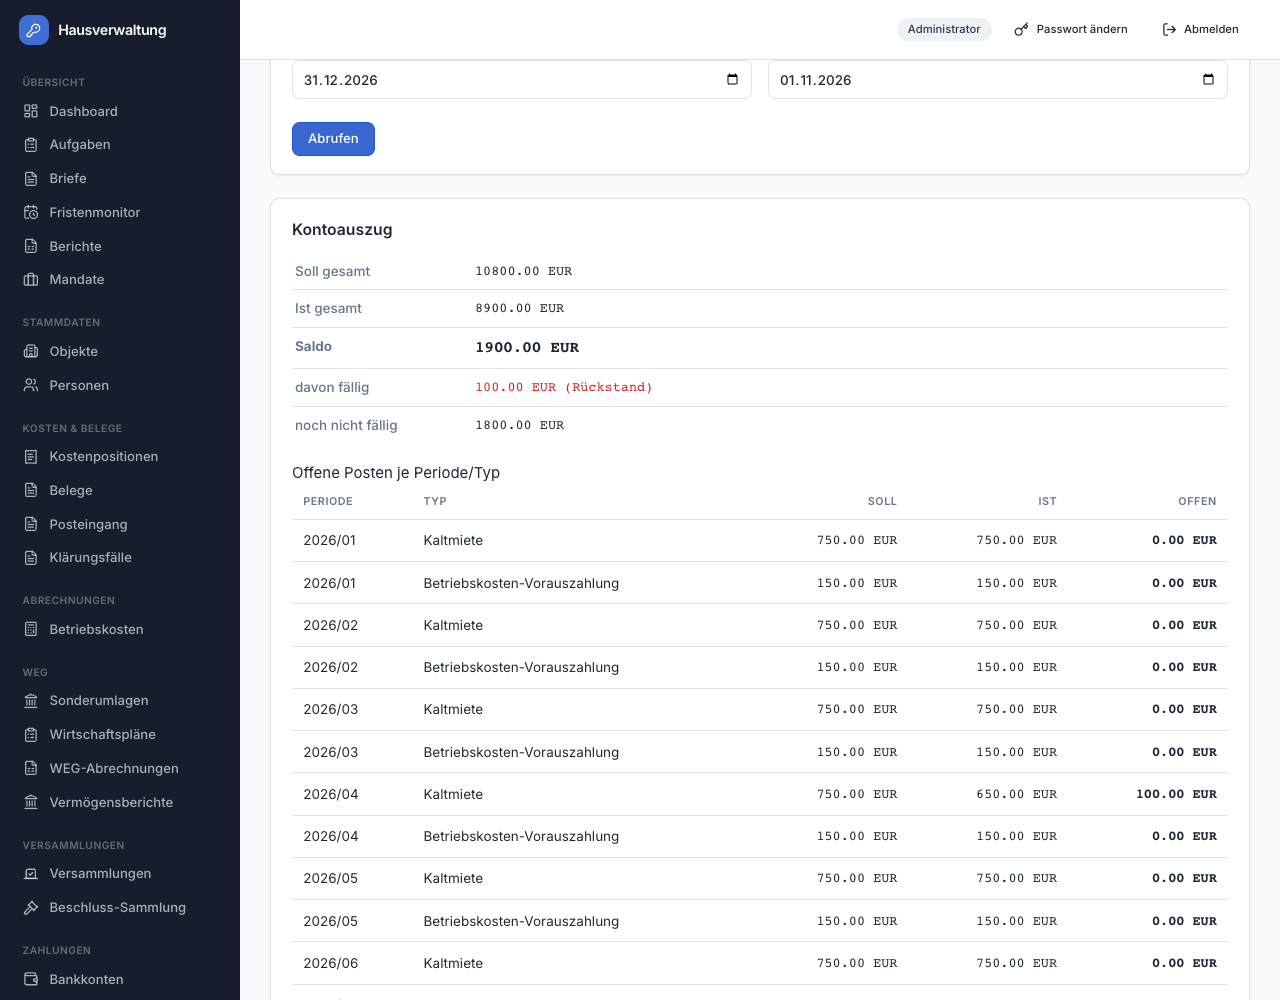
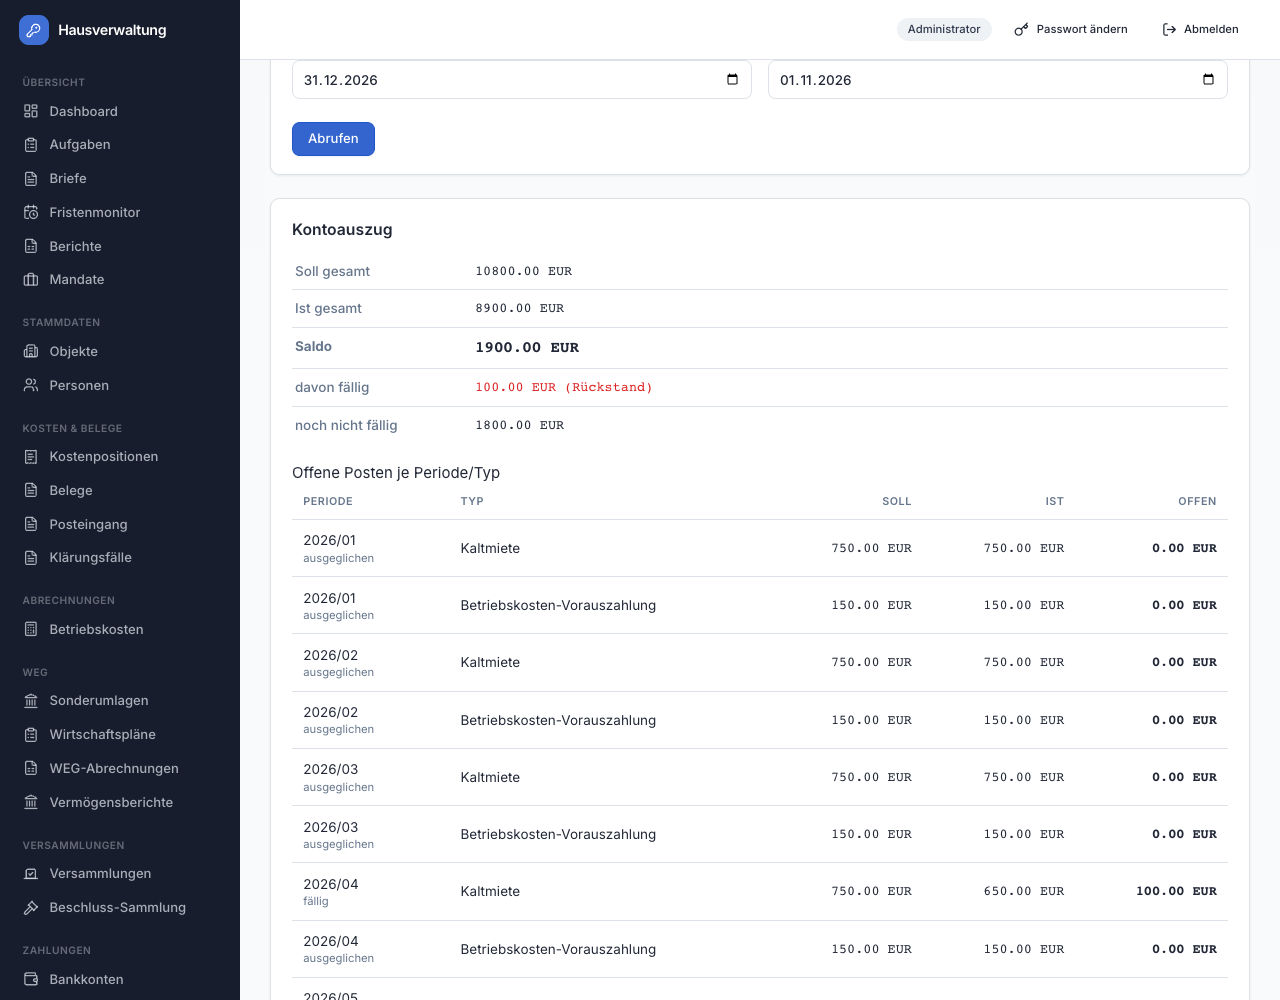
fix(payments): identify due and future rent by period
The account summary separated arrears from future rent, but each open November and December charge still appeared without its due status. Return the tenant row classification used in the summary and show it beside the period.

Cover the signed amounts, April arrears and both November cutoff dates in the engine, API, component and browser tests. Check the existing rent and bank journeys and capture the rows at 1280 and 360 px.

Refs #170

diff --git a/frontend/src/pages/MietkontoPage.test.tsx b/frontend/src/pages/MietkontoPage.test.tsx
@@ -32,7 +32,12 @@ afterEach(() => {
 it("keeps the full-year balance and labels only the selected cutoff's due part as arrears", async () => {
   vi.mocked(api.leaseStatement).mockResolvedValue({
     soll_total: "10800.00", ist_total: "8900.00", balance: "1900.00",
-    due_balance: "100.00", not_yet_due_balance: "1800.00", open_items: [],
+    due_balance: "100.00", not_yet_due_balance: "1800.00", open_items: [
+      { period_year: 2026, period_month: 4, payment_type: "KALTMIETE", soll: "750.00", ist: "650.00", open_amount: "100.00", is_due: true },
+      { period_year: 2026, period_month: 11, payment_type: "KALTMIETE", soll: "750.00", ist: "0.00", open_amount: "750.00", is_due: false },
+      { period_year: 2026, period_month: 12, payment_type: "KALTMIETE", soll: "750.00", ist: "800.00", open_amount: "-50.00", is_due: false },
+      { period_year: 2026, period_month: 10, payment_type: "KALTMIETE", soll: "750.00", ist: "750.00", open_amount: "0.00", is_due: true },
+    ],
   });
   const user = userEvent.setup();
   render(<MietkontoPage />);
@@ -48,7 +53,13 @@ it("keeps the full-year balance and labels only the selected cutoff's due part a
   expect(saldo).toHaveTextContent("1900.00 EUR");
   expect(saldo).not.toHaveTextContent(/R[uü]e?ckstand/);
   expect(screen.getByText("davon fällig").closest("tr")).toHaveTextContent("100.00 EUR (Rückstand)");
-  expect(screen.getByText("noch nicht fällig").closest("tr")).toHaveTextContent("1800.00 EUR");
+  expect(screen.getAllByText("noch nicht fällig")[0].closest("tr")).toHaveTextContent("1800.00 EUR");
+  for (const [period, status, amount] of [["2026/04", "fällig", "100.00"], ["2026/11", "noch nicht fällig", "750.00"], ["2026/12", "noch nicht fällig", "-50.00"], ["2026/10", "ausgeglichen", "0.00"]]) {
+    const row = screen.getByText(period).closest("tr")!;
+    expect(within(row).getByText(status)).toBeVisible();
+    expect(row).toHaveTextContent(`${amount} EUR`);
+    expect(row).not.toHaveTextContent("Rückstand");
+  }
   expect(api.leaseStatement).toHaveBeenCalledWith("lease-t12", "2026-01-01", "2026-12-31", undefined, "2026-11-01");
   fireEvent.change(screen.getByLabelText("Fällig am *"), { target: { value: "2026-11-04" } });
   expect(screen.queryByText("Saldo", { exact: true })).not.toBeInTheDocument();
@@ -67,10 +78,10 @@ describe("Mietkonto saldo (Soll minus Ist)", () => {
       due_balance: balance, not_yet_due_balance: "0.00",
       open_items: [{
         period_year: 2025, period_month: 12, payment_type: "KALTMIETE",
-        soll: "500.00", ist: "0.00", open_amount: "500.00",
+        soll: "500.00", ist: "0.00", open_amount: "500.00", is_due: true,
       }, {
         period_year: 2025, period_month: 12, payment_type: "NK_VORAUSZAHLUNG",
-        soll: "100.00", ist: "0.00", open_amount: "100.00",
+        soll: "100.00", ist: "0.00", open_amount: "100.00", is_due: true,
       }],
     });
     const user = userEvent.setup();

diff --git a/frontend/src/pages/MietkontoPage.tsx b/frontend/src/pages/MietkontoPage.tsx
@@ -378,9 +378,12 @@ export function MietkontoPage() {
                   {result.open_items.map((item, idx) => (
                     <tr key={idx}>
                       <td>
-                        {item.period_year
+                        <span>{item.period_year
                           ? `${item.period_year}${item.period_month ? "/" + String(item.period_month).padStart(2, "0") : ""}`
-                          : "-"}
+                          : "-"}</span>
+                        {"is_due" in item && <span className="block text-xs text-muted-foreground">
+                          {Number(item.open_amount) === 0 ? "ausgeglichen" : item.is_due ? "fällig" : "noch nicht fällig"}
+                        </span>}
                       </td>
                       <td>
                         {PAYMENT_TYPE_LABELS[item.payment_type] ?? item.payment_type}

diff --git a/frontend/src/api/types.ts b/frontend/src/api/types.ts
@@ -1202,6 +1202,7 @@ export interface MietkontoResult {
 }
 
 export interface TenantMietkontoResult extends MietkontoResult {
+  open_items: (OpenItem & { is_due: boolean })[];
   due_balance: string;
   not_yet_due_balance: string;
 }

diff --git a/backend/tests/bdd/test_rent_account_due.py b/backend/tests/bdd/test_rent_account_due.py
@@ -49,6 +49,10 @@ def november_account(browser_world, tmp_path):
         await browser_world.row('Saldo', '1900.00 EUR')
         await browser_world.row('davon fällig', '100.00 EUR (Rückstand)')
         await browser_world.row('noch nicht fällig', '1800.00 EUR')
+        await rent_row(page, '2026/04', 'Kaltmiete', '100.00 EUR', 'fällig')
+        for month in ['11', '12']:
+            await rent_row(page, f'2026/{month}', 'Kaltmiete', '750.00 EUR', 'noch nicht fällig')
+            await rent_row(page, f'2026/{month}', 'Betriebskosten-Vorauszahlung', '150.00 EUR', 'noch nicht fällig')
         saldo = page.get_by_role('row').filter(has=page.get_by_role('cell', name='Saldo', exact=True))
         await expect(saldo).not_to_contain_text('Rückstand')
         await expect(field(page, 'Zeitraum bis *')).to_have_value('2026-12-31')
@@ -58,6 +62,8 @@ def november_account(browser_world, tmp_path):
         directory.mkdir(parents=True, exist_ok=True)
         await field(page, 'Fällig am *').evaluate("e => e.scrollIntoView({block: 'start'})")
         await page.screenshot(path=str(directory / f'after-{page.viewport_size["width"]}.png'), full_page=True)
+        await page.get_by_text('2026/11', exact=True).first.evaluate("e => e.scrollIntoView({block: 'center'})")
+        await page.screenshot(path=str(directory / f'future-{page.viewport_size["width"]}.png'), full_page=True)
     browser_world.run(run())
 
 
@@ -77,4 +83,16 @@ def on_due_date(browser_world):
         await browser_world.row('Saldo', '1900.00 EUR')
         await browser_world.row('davon fällig', '1000.00 EUR (Rückstand)')
         await browser_world.row('noch nicht fällig', '900.00 EUR')
+        page = browser_world.page
+        await rent_row(page, '2026/04', 'Kaltmiete', '100.00 EUR', 'fällig')
+        for kind, amount in [('Kaltmiete', '750.00 EUR'), ('Betriebskosten-Vorauszahlung', '150.00 EUR')]:
+            await rent_row(page, '2026/11', kind, amount, 'fällig')
+            await rent_row(page, '2026/12', kind, amount, 'noch nicht fällig')
     browser_world.run(run())
+
+
+async def rent_row(page, period, kind, amount, status):
+    row = page.get_by_role('row').filter(has=page.get_by_text(period, exact=True)).filter(
+        has=page.get_by_role('cell', name=kind, exact=True))
+    await expect(row.get_by_role('cell').nth(4)).to_contain_text(amount)
+    await expect(row.get_by_text(status, exact=True)).to_be_visible()

diff --git a/backend/tests/engine/test_golden_mietkonto.py b/backend/tests/engine/test_golden_mietkonto.py
@@ -132,7 +132,9 @@ def test_statement_cutoff_splits_the_full_year_without_prorating_or_reallocating
     result = account_statement(charges, payments, as_of=cutoff)
     assert (result.soll_total, result.ist_total, result.balance) == (
         Decimal('10800.00'), Decimal('8900.00'), Decimal('1900.00'))
-    assert result.open_items == original.open_items
+    assert tuple(replace(item, is_due=None) for item in result.open_items) == original.open_items
+    assert all(item.is_due == (item.period_month < 11 or
+        item.period_month == 11 and cutoff >= date(2026, 11, 4)) for item in result.open_items)
     assert result.due_balance == Decimal(due)
     assert result.not_yet_due_balance == Decimal(future)
     assert result.due_balance + result.not_yet_due_balance == result.balance
@@ -154,7 +156,10 @@ def test_statement_cutoff_keeps_signed_credits_partial_payments_and_undated_buck
         _pay(5, PT_KALTMIETE, '999', year=2026, month=11, is_booked=False),
         _pay(6, PT_KALTMIETE, '999', year=2026, month=11, is_reversed=True)]
     result = account_statement(charges, payments, as_of=date(2026, 11, 1))
-    assert result.open_items == account_statement(charges, payments).open_items
+    assert tuple(replace(item, is_due=None) for item in result.open_items) == account_statement(charges, payments).open_items
+    assert result.due_balance == sum(item.open_amount for item in result.open_items if item.is_due)
+    assert all(item.is_due == (item.period_month in (None, 10) or
+        item.payment_type == "HK_VORAUSZAHLUNG") for item in result.open_items)
     # October credit -50.01, annual credit -10.01 and existing first-of-month HK +90.01.
     assert result.due_balance == Decimal('29.99')
     assert result.not_yet_due_balance == Decimal(future)

diff --git a/backend/app/engine/mietkonto.py b/backend/app/engine/mietkonto.py
@@ -39,7 +39,7 @@ rate-days per month/component before a single final cent rounding.
 from __future__ import annotations
 
 import uuid
-from dataclasses import dataclass, field
+from dataclasses import dataclass, field, replace
 from datetime import date
 from decimal import Decimal
 
@@ -461,6 +461,7 @@ class OpenItem:
     ist: Decimal
     open_amount: Decimal  # soll - ist
     due_date: date | None = None
+    is_due: bool | None = None
 
     @property
     def is_arrears(self) -> bool:
@@ -563,9 +564,9 @@ def account_statement(
     due_balance = None
     not_yet_due_balance = None
     if as_of is not None:
-        due_balance = sum((item.open_amount for item in items
-            if item.period_year is None or (item.due_date or
-                date(item.period_year, item.period_month or 1, 1)) <= as_of), Decimal('0.00'))
+        items = [replace(item, is_due=item.period_year is None or (item.due_date or
+            date(item.period_year, item.period_month or 1, 1)) <= as_of) for item in items]
+        due_balance = sum((item.open_amount for item in items if item.is_due), Decimal('0.00'))
         not_yet_due_balance = _money(soll_total - ist_total - due_balance)
     return MietkontoResult(
         open_items=tuple(items),

diff --git a/backend/tests/test_m6_zahlungen.py b/backend/tests/test_m6_zahlungen.py
@@ -649,9 +649,13 @@ class TestMietkontoAPI:
             body = response.json()
             assert (body['soll_total'], body['ist_total'], body['balance']) == ('10200.00', '8400.00', '1800.00')
             assert (body['due_balance'], body['not_yet_due_balance']) == (due, future)
+            items = body['open_items']
+            assert all(item['is_due'] == (item['period_month'] < 11 or
+                item['period_month'] == 11 and cutoff >= '2026-11-04') for item in items)
+            amounts = [{key: value for key, value in item.items() if key != 'is_due'} for item in items]
             if original_items is None:
-                original_items = body['open_items']
-            assert body['open_items'] == original_items
+                original_items = amounts
+            assert amounts == original_items
         with patch('app.services.payment_service.date') as clock:
             clock.today.return_value = date(2026, 11, 1)
             response = await client_a_clerk.get(url, params=params)

diff --git a/backend/app/api/payments.py b/backend/app/api/payments.py
@@ -143,7 +143,12 @@ class MietkontoOut(BaseModel):
     balance: str
 
 
+class TenantOpenItemOut(OpenItemOut):
+    is_due: bool
+
+
 class TenantMietkontoOut(MietkontoOut):
+    open_items: list[TenantOpenItemOut]
     due_balance: str
     not_yet_due_balance: str
 
@@ -240,7 +245,10 @@ async def lease_statement(
     result = await svc.account_statement_for_lease(
         lease_agreement_id, period_start, period_end, accounting_scope_id, as_of=as_of
     )
-    return TenantMietkontoOut(**_mietkonto_out(result).model_dump(),
+    statement = _mietkonto_out(result).model_dump()
+    statement['open_items'] = [TenantOpenItemOut(**row, is_due=item.is_due)
+        for row, item in zip(statement['open_items'], result.open_items)]
+    return TenantMietkontoOut(**statement,
         due_balance=str(result.due_balance), not_yet_due_balance=str(result.not_yet_due_balance))
 
 

diff --git a/backend/tests/bdd/steps/browser_common.py b/backend/tests/bdd/steps/browser_common.py
@@ -42,6 +42,10 @@ async def ledger(browser, *, start="2026-01-01", end="2026-12-31"):
 
 async def ledger_row(browser, period, kind, expected):
     page = browser.page
-    row = page.get_by_role("row").filter(has=page.get_by_role("cell", name=period, exact=True)).filter(
+    row = page.get_by_role("row").filter(has=page.get_by_text(period, exact=True)).filter(
         has=page.get_by_role("cell", name=kind, exact=True))
-    await expect(row.get_by_role("cell")).to_have_text([period, kind, *[f"{value} EUR" for value in expected]])
+    cells = row.get_by_role("cell")
+    await expect(cells).to_have_count(5)
+    await expect(cells.nth(0).get_by_text(period, exact=True)).to_be_visible()
+    for index, value in enumerate([kind, *[f"{value} EUR" for value in expected]], start=1):
+        await expect(cells.nth(index)).to_have_text(value)

diff --git a/docs/m6-zahlungen-mietkonto.md b/docs/m6-zahlungen-mietkonto.md
@@ -276,8 +276,10 @@ optional `as_of` (ISO date, default: today). Its `due_balance` and
 `balance`. An item is due on and after its existing due date. Undated monthly
 items retain the first-of-month fallback (including heating advances); annual
 buckets use January 1, and bookings without a period are included in the due part.
-Credits and partial payments retain their existing period/type allocation; they
-are not moved to another month's debt. The engine computes the split only with an
+Each tenant statement row includes `is_due`, computed by the same engine
+classification used for the aggregate. Owner statements and open-items DTOs
+remain unchanged. Credits and partial payments retain their existing period/type
+allocation; they are not moved to another month's debt. The engine computes the split only with an
 explicit cutoff, keeping its existing callers compatible and free of an implicit clock.
 
 The cutoff never clips `period_end`: full-year `soll_total`, `ist_total`, `balance`
@@ -289,8 +291,10 @@ the current statement, not a reconstruction of the historical ledger.
 In **Mietkonto**, select the lease and reporting period, choose **“Fällig am”**
 (today by default) and click **“Abrufen”**. “Saldo” remains the period balance;
 “davon fällig” alone carries “Rückstand” when positive, and “noch nicht fällig”
-shows the remaining signed part. For 2026 with 900 EUR monthly rent, January–October
-paid except 100 EUR in April, the 01.11.2026 cutoff shows 1,900 EUR Saldo,
+shows the remaining signed part. Detail rows identify nonzero amounts as “fällig”
+or “noch nicht fällig” and zero amounts as “ausgeglichen”, including on narrow
+screens. Credits retain their sign without an arrears label. For 2026 with 900 EUR
+monthly rent, January–October paid except 100 EUR in April, the 01.11.2026 cutoff shows 1,900 EUR Saldo,
 100 EUR due and 1,800 EUR not yet due. On 04.11.2026 November is due:
 1,000 EUR due and 900 EUR not yet due, with the same 1,900 EUR Saldo.
 The owner statement, open-items views, dunning, dashboard and deadline monitor
